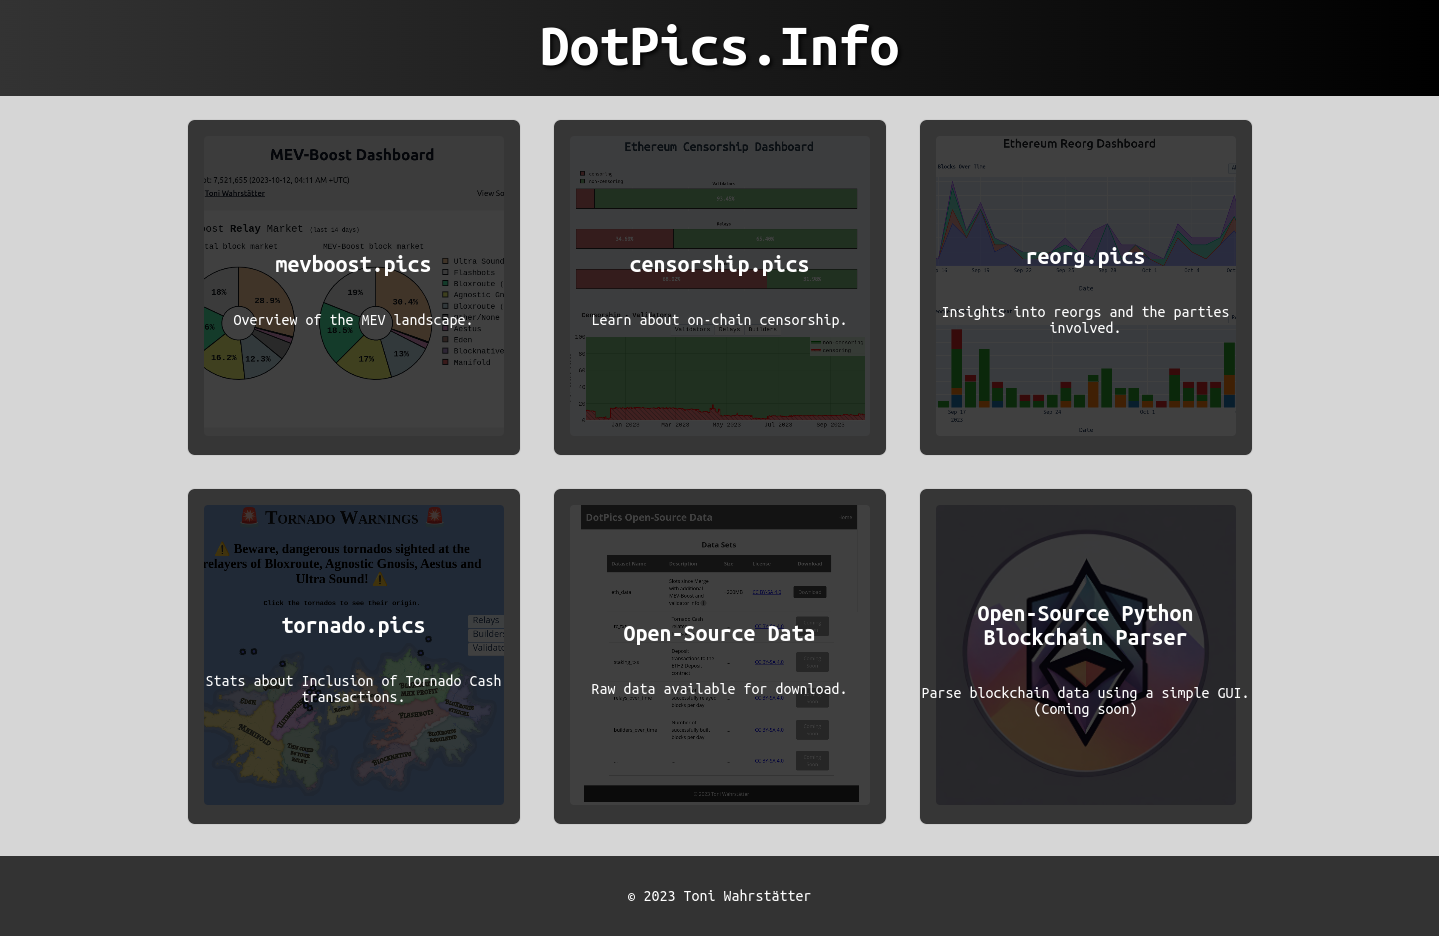
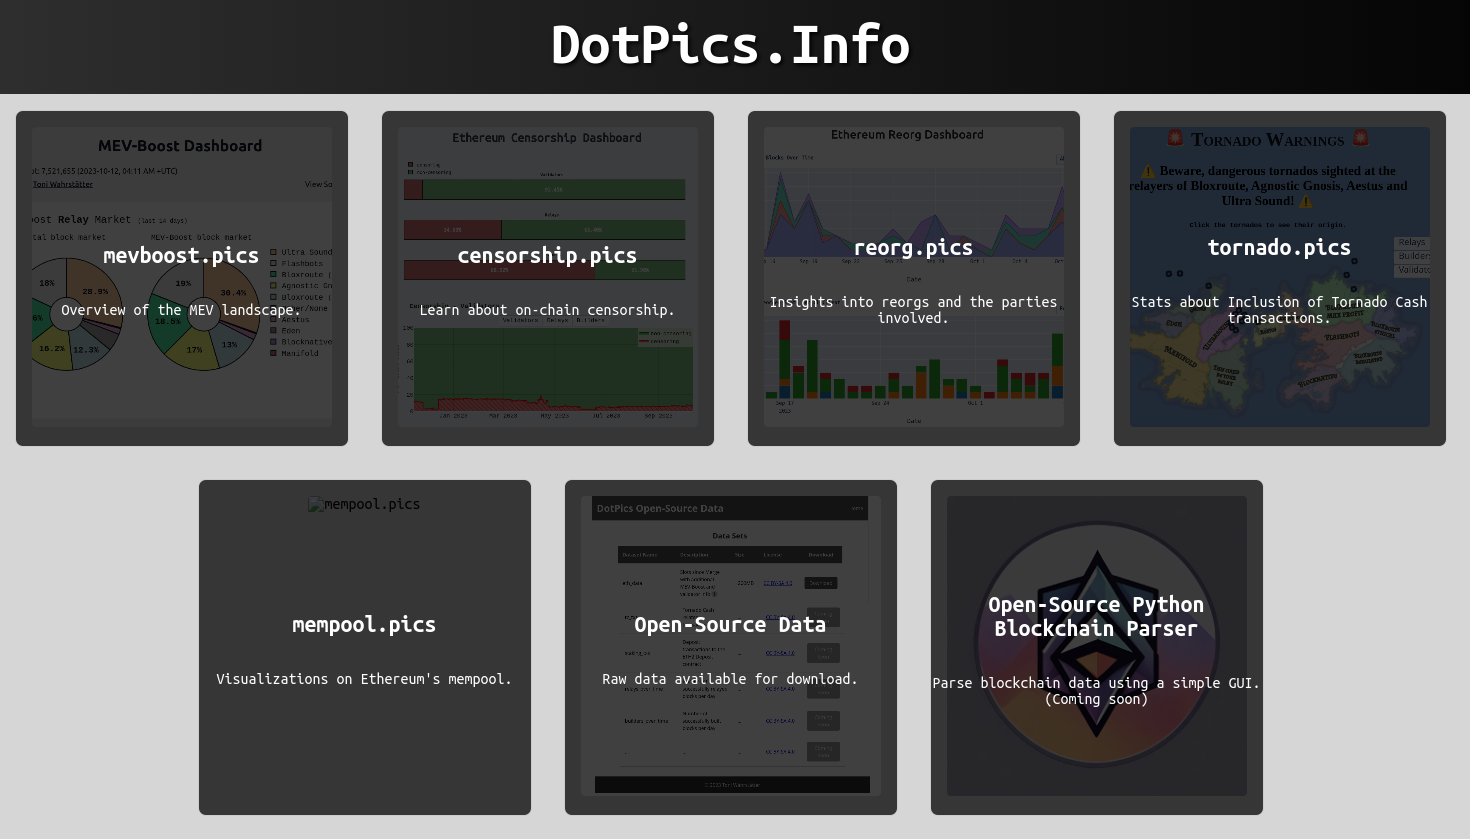
Add files via upload

diff --git a/index.html b/index.html
@@ -33,61 +33,89 @@
   <h1>DotPics.Info</h1>
 </header>
   <main>
-    <div class="website-card" id="mevboost">
-      <a href="https://mevboost.pics" class="card-link">
-        <img src="https://dotpics.info/static/mevboost_preview.png" alt="MEBoost.pics">
-        <div class="overlay-text">
-          <h2>mevboost.pics</h2>
-          <p>Overview of the MEV landscape.</p>
+    <div class="card-row">
+        <div class="website-card" id="mevboost">
+          <a href="https://mevboost.pics" class="card-link">
+            <img src="https://dotpics.info/static/mevboost_preview.png" alt="MEBoost.pics">
+            <div class="overlay-text">
+              <h2>mevboost.pics</h2>
+              <p>Overview of the MEV landscape.</p>
+            </div>
+          </a>
         </div>
-      </a>
-    </div>
-    <div class="website-card" id="censorship">
-      <a href="https://censorship.pics" class="card-link">
-        <img src="https://dotpics.info/static/censorship_preview.png" alt="Censorship.pics">
-        <div class="overlay-text">
-          <h2>censorship.pics</h2>
-          <p>Learn about on-chain censorship.</p>
+        <div class="website-card" id="censorship">
+          <a href="https://censorship.pics" class="card-link">
+            <img src="https://dotpics.info/static/censorship_preview.png" alt="Censorship.pics">
+            <div class="overlay-text">
+              <h2>censorship.pics</h2>
+              <p>Learn about on-chain censorship.</p>
+            </div>
+          </a>
         </div>
-      </a>
-    </div>
-    <div class="website-card" id="reorg">
-      <a href="https://reorg.pics" class="card-link">
-        <img src="https://dotpics.info/static/reorg_preview.png" alt="Reorg.pics">
-        <div class="overlay-text">
-          <h2>reorg.pics</h2>
-          <p>Insights into reorgs and the parties involved.</p>
+        <div class="website-card" id="reorg">
+          <a href="https://reorg.pics" class="card-link">
+            <img src="https://dotpics.info/static/reorg_preview.png" alt="Reorg.pics">
+            <div class="overlay-text">
+              <h2>reorg.pics</h2>
+              <p>Insights into reorgs and the parties involved.</p>
+            </div>
+          </a>
         </div>
-      </a>
-    </div>
-    <div class="website-card" id="tornado">
-      <a href="https://tornado.pics" class="card-link">
-        <img src="https://dotpics.info/static/tornado-warning_preview.png" alt="tornado.pics">
-        <div class="overlay-text">
-          <h2>tornado.pics</h2>
-          <p>Stats about Inclusion of Tornado Cash transactions.</p>
+        <div class="website-card" id="tornado">
+          <a href="https://tornado.pics" class="card-link">
+            <img src="https://dotpics.info/static/tornado-warning_preview.png" alt="tornado.pics">
+            <div class="overlay-text">
+              <h2>tornado.pics</h2>
+              <p>Stats about Inclusion of Tornado Cash transactions.</p>
+            </div>
+          </a>
         </div>
-      </a>
     </div>
-    <div class="website-card" id="data">
-      <a href="https://dotpics.info/data.html" class="card-link">
-        <img src="https://dotpics.info/static/data_preview.png" alt="Get Raw Data">
-        <div class="overlay-text">
-          <h2>Open-Source Data</h2>
-          <p>Raw data available for download.</p>
+    <div class="card-row">
+        
+        <div class="website-card" id="tornado">
+          <a href="https://mempool.pics" class="card-link">
+            <img src="https://dotpics.info/static/mempool_preview.png" alt="mempool.pics">
+            <div class="overlay-text">
+              <h2>mempool.pics</h2>
+              <p>Visualizations on Ethereum's mempool.</p>
+            </div>
+          </a>
         </div>
-      </a>
+        <div class="website-card" id="data">
+          <a href="https://dotpics.info/data.html" class="card-link">
+            <img src="https://dotpics.info/static/data_preview.png" alt="Get Raw Data">
+            <div class="overlay-text">
+              <h2>Open-Source Data</h2>
+              <p>Raw data available for download.</p>
+            </div>
+          </a>
+        </div>
+        
+        <div class="website-card" id="data">
+          <a href="#" class="card-link">
+            <img src="https://dotpics.info/static/parser_preview.png" alt="Goto Code of Python Parser">
+            <div class="overlay-text">
+              <h2>Open-Source Python Blockchain Parser</h2>
+              <p>Parse blockchain data using a simple GUI. (Coming soon)</p>
+            </div>
+          </a>
+        </div>
     </div>
-    <div class="website-card" id="data">
-      <a href="#" class="card-link">
-        <img src="https://dotpics.info/static/parser_preview.png" alt="Goto Code of Python Parser">
+     
+       <hr class="horizontal-line">
+      
+     <div class="website-card" id="external-project">
+      <a href="https://www.searcherbuilder.pics/" class="card-link">
+        <img src="hhttps://dotpics.info/static/searcherbuilder_preview.png" alt="searcherbuilder.pics">
         <div class="overlay-text">
-          <h2>Open-Source Python Blockchain Parser</h2>
-          <p>Parse blockchain data using a simple GUI. (Coming soon)</p>
+          <h2>searcherbuilder.pics</h2>
+          <p>Searcher/Builder visualization by Winnie.</p>
         </div>
       </a>
     </div>
   </main>
+
   <footer>
     <p>© 2023 Toni Wahrstätter</p>
   </footer>

diff --git a/static/styles.css b/static/styles.css
@@ -24,8 +24,6 @@ header {
 }
 
 main {
-  display: flex;
-  flex-wrap: wrap;
   justify-content: center;
   max-width: 90vw;
   margin: auto;
@@ -127,6 +125,17 @@ header h1 {
   padding: 20px;
   font-size: 2.5em;
   animation: slideInFromLeft 1s ease-in-out;
+}
+
+.card-row {
+  display: flex;
+  flex-wrap: wrap;
+  justify-content: center;
+}
+
+.horizontal-line {
+  width: 100%;
+  margin: 20px 0;
 }
 
 @keyframes slideInFromLeft {
